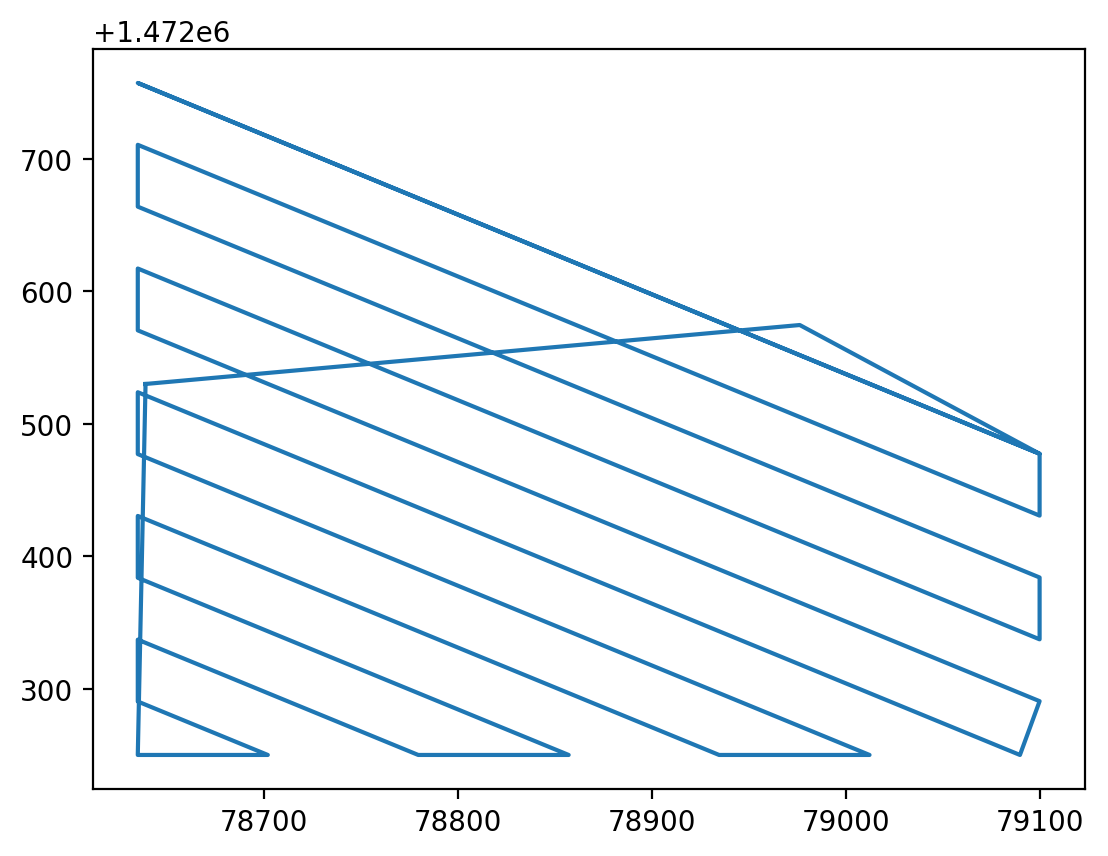
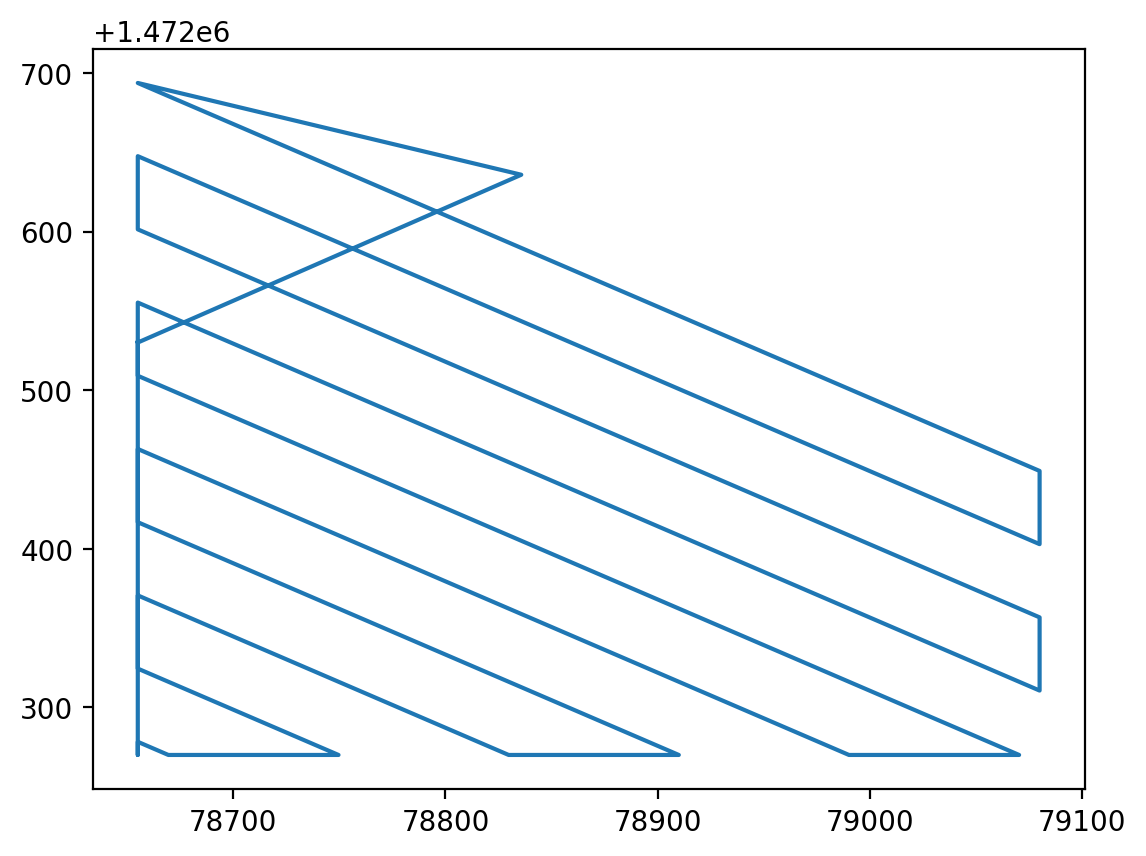
added route 1

diff --git a/polygon_coverage_ros/scripts/interface.py b/polygon_coverage_ros/scripts/interface.py
@@ -28,7 +28,7 @@ class PlannerProxy(object):
         # prep output location
         rootDir = osp.dirname(osp.abspath(__file__))
         outDir = osp.join(rootDir, "out")
-        outName = "path_3"
+        outName = "path_1"
         if not osp.exists(outDir):
             os.makedirs(outDir)
         self.outFile = osp.join(outDir, outName)
@@ -74,8 +74,8 @@ class PlannerProxy(object):
         goalVel = Vector3()
         boundingBox = Vector3()
 
-        startPose.pose.position.x = 78534.0
-        startPose.pose.position.y = 1472050.0
+        startPose.pose.position.x = 78639.0
+        startPose.pose.position.y = 1472530.0
 
         #start = goal
         goalPose.pose= startPose.pose
